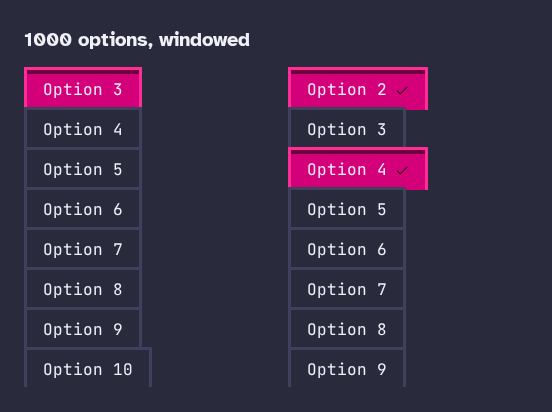
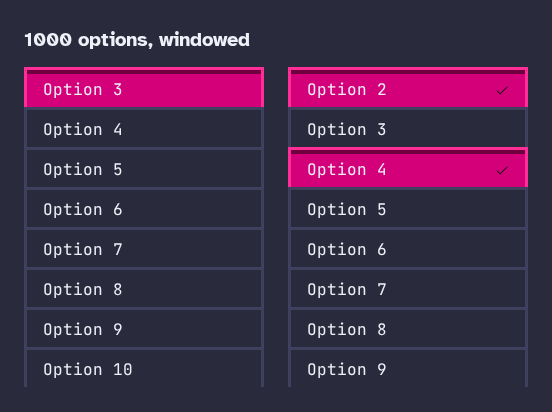
fix(ui): stretch AtListboxItem to full width for virtualized rows
reka-ui's ListboxVirtualizer absolutely-positions each row with no width
set, so without an explicit w-full, rows shrink to their own content
width instead of filling the listbox -- visible as jagged row widths in
AtVirtualListbox. AtListbox itself is unaffected since its flex-col
container already stretches children by default.

Changed region(s): [[0.2464, 0.1456, 0.4928, 0.932], [0.7083, 0.1456, 0.9547, 0.932], [0.7083, 0.2039, 0.7391, 0.233]]

diff --git a/packages/ui/src/components/Listbox/AtVirtualListbox.test.ts b/packages/ui/src/components/Listbox/AtVirtualListbox.test.ts
@@ -107,6 +107,20 @@ test('arrow keys move focus between options', async () => {
   await expect.element(screen.getByRole('option', { name: 'Option 1' })).toHaveFocus()
 })
 
+// Absolutely-positioned virtualized rows have no ambient width the way a
+// flex-col child would -- each option must fill the listbox's own width
+// (the widest possible content) rather than shrinking to its own text.
+test('rendered options fill the listbox width rather than shrinking to their own content', async () => {
+  render(FixedHeightListbox)
+
+  const listbox = await screen.findByRole('listbox')
+  const options = await screen.findAllByRole('option')
+  const listboxWidth = listbox.getBoundingClientRect().width
+  for (const option of options) {
+    expect(option.getBoundingClientRect().width).toBeCloseTo(listboxWidth, 0)
+  }
+})
+
 // Zero options renders the same static empty-state row AtListbox uses.
 test('renders a static empty-state row when there are no options', () => {
   render(FixedHeightListbox, { props: { options: [] } })

diff --git a/packages/ui/src/components/Listbox/AtListboxItem.vue b/packages/ui/src/components/Listbox/AtListboxItem.vue
@@ -63,7 +63,12 @@ if (matchState) {
 // happens to be highlighted -- ordered after the highlight rule so it wins
 // when both data attributes are present.
 const item =
-  'flex cursor-pointer items-center justify-between gap-2 px-4 py-2 font-body text-base text-fg-default outline-none ' +
+  // w-full matters for AtVirtualListbox: reka-ui's ListboxVirtualizer
+  // absolutely-positions each item (no width set), so without an explicit
+  // width it shrinks to its own content instead of filling the row -- a
+  // flex-col AtListbox already stretches children by default and is
+  // unaffected by the extra class.
+  'flex w-full cursor-pointer items-center justify-between gap-2 px-4 py-2 font-body text-base text-fg-default outline-none ' +
   'border-[3px] border-solid border-border-default bg-surface-default shadow-flat border-b-0 ' +
   'first:rounded-t-md last:rounded-b-md last:border-b-[3px] ' +
   'data-[highlighted]:bg-surface-subtle data-[highlighted]:shadow-low ' +
